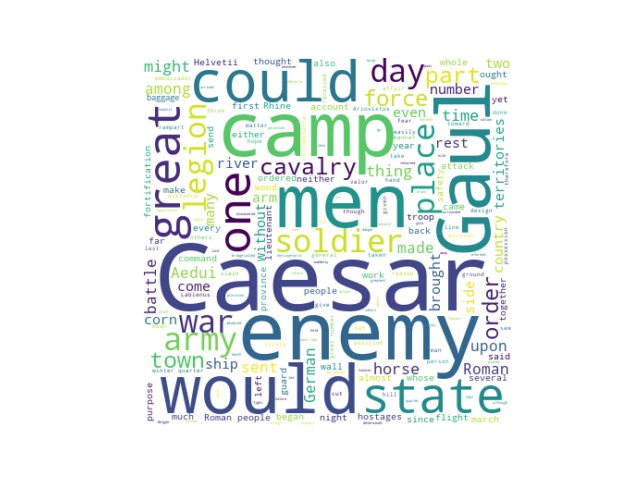
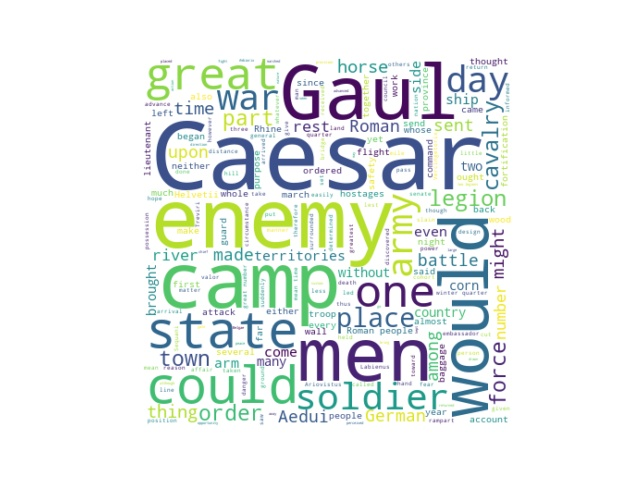
fixed animated embedding keywords

Changed region(s): [[0.2188, 0.125, 0.8125, 0.9062]]

diff --git a/driver.py b/driver.py
@@ -3,11 +3,11 @@ import os
 import json
 import argparse
 import matplotlib.pyplot as plt 
-import matplotlib.animation as animation
 import numpy as np
 from core import analysis
 from core import settings
 from core import ui
+from core import graph
 from core.translation import Translation
 from adjustText import adjust_text
 from tqdm import tqdm
@@ -75,36 +75,13 @@ class Driver:
         if index != back_index - 1:
             return self.texts[index][1]
         return None
-        
-    def sentiment(self, translations: list) -> None:
-        fig = plt.figure()
-        title = "Sentiment Over Time"
-        for t in translations:
-            t.print_info()
-            text = t.get_delimited_text()
-            text = analysis.preprocess_text(text, settings.stopwords)
-            #print(text)
-            s = analysis.sentiment_by_section(text)
-            x = np.arange(s.size)
-            plt.plot(x, s, label = t.get_info())    
-        plt.title(title)
-        plt.legend()
-        plt.xticks(np.arange(1, s.size + 1))
-        plt.xlabel("Interval")
-        plt.ylabel("Positivity / Negativity")
-        fig.set_size_inches(12, 6)
-        plt.savefig(os.path.join(self.paths["sentiment"], "sentiment_comparison.png"), dpi = 100)
-        plt.show()
 
     def wordclouds(self, translations: list, text_path: str) -> None:
         print("Generating wordclouds for the following translations:")
         for t in translations:
             t.print_info()
-            plt.figure()
-            plt.imshow(t.generate_wordcloud(stopwords = settings.stopwords, size = (400, 400)), interpolation = 'bilinear', cmap = 'Paired')
-            plt.axis('off')
-            plt.savefig(os.path.join(self.paths["figures"], text_path, "wordclouds", f"wordcloud_{t.lastname}.jpg"))
-            #plt.show()
+            save_path = os.path.join(self.paths["figures"], text_path, "wordclouds", f"wordcloud_{t.lastname}.jpg")
+            graph.wordcloud(t, settings.stopwords, save_path)
 
     def embeddings(self, translations: list, text_path: str, printing: bool = True) -> None:
         print("Creating embeddings...")
@@ -118,21 +95,8 @@ class Driver:
             similar_words, all_words, pcs, explained_variance = analysis.analyze_embeddings(corpus, settings.key_words[text_path])
             all_words, indices = np.unique(all_words, return_index=True)
             pcs = pcs[indices]
-
-            with plt.style.context('Solarize_Light2'):
-                plt.figure(figsize=(12, 8))
-                plt.rcParams.update({'font.family':'serif'})
-                plt.scatter(pcs[:, 0], pcs[:, 1], c='darkgoldenrod')
-
-                annotations = []
-                for word, x, y in zip(all_words, pcs[:, 0], pcs[:, 1]):
-                    annotations.append(plt.annotate(word, xy=(x+0.015, y-0.005), xytext=(0, 0), textcoords='offset points'))
-                adjust_text(annotations)
-
-                plt.xlabel("PC1 | " + "{:.2%}".format(explained_variance[0]))
-                plt.ylabel("PC2 | " + "{:.2%}".format(explained_variance[1]))
-                plt.title(f"Translation: {t.get_info()}") 
-                plt.savefig(os.path.join(self.paths["figures"], text_path, "embeddings", "embeddings_" + t.lastname + ".jpg"), dpi=300)
+            save_path = os.path.join(self.paths["figures"], text_path, "embeddings", "embeddings_" + t.lastname + ".jpg")
+            graph.embeddings(t, all_words, pcs, explained_variance, save_path)
 
             if printing:
                 print()
@@ -141,7 +105,8 @@ class Driver:
                     print(f"{k}: {v}")
                 print('-----------------------------------')
 
-    def animated_embeddings(self, translations: list, printing = False) -> None:
+    def animated_embeddings(self, translations: list, text_path: str, printing = False) -> None:
+        print("Creating embeddings...")
         embedding_info = []
         for i, t in enumerate(translations):
             text = t.get_delimited_text()
@@ -149,58 +114,31 @@ class Driver:
             corpus = []
             for section in text:
                 corpus.append(section.split(' '))
-            similar_words, all_words, pcs, explained_variance = analysis.analyze_embeddings(corpus, settings.key_words)
+            similar_words, all_words, pcs, explained_variance = analysis.analyze_embeddings(corpus, settings.key_words[text_path])
             key_words = []
             for k, v in similar_words.items():
                 key_words.append(k)
             embedding_info.append([key_words, all_words, pcs, explained_variance, t.get_info()])
         embedding_info.append(embedding_info[0]) # loop back to first translation at the end
+        save_path = save_path = os.path.join(self.paths["figures"], text_path, "embeddings", "embeddings_animated.gif")
+        print("Animating embeddings...")
+        graph.animated_embeddings(embedding_info, save_path)
 
-
-        with plt.style.context('Solarize_Light2'):
-            fig = plt.figure(figsize=(12, 8))
-            ax = plt.axes()
-        N = 150
-        delay = 20
-
-        def animate(i, N, embedding_info):
-            pause = (i // N) % 2 == 0
-            ci = i % N 
-            j = i // (N * 2)
-
-            current_points = np.array(list(zip(embedding_info[j][2][:, 0], embedding_info[j][2][:, 1])))
-            next_points = current_points if pause else np.array(list(zip(embedding_info[j + 1][2][:, 0], embedding_info[j + 1][2][:, 1])))
-
-            ax.clear()
-            points = np.empty((current_points.shape))
-            for k in range(len(current_points)):
-                #print(current_points[k])
-                xdist = next_points[k][0] - current_points[k][0]
-                ydist = next_points[k][1] - current_points[k][1]
-                word  = embedding_info[j][1][k]
-                points[k][0] = current_points[k][0] + ((ci * xdist) / N)
-                points[k][1] = current_points[k][1] + ((ci * ydist) / N)
-            ax.scatter(points[:, 0], points[:, 1])
-            ax.set_xlim((-0.7, 1.25))
-            ax.set_ylim((-0.4, 0.7))
-            ax.set_title(embedding_info[j][4])
-            #annotations = []
-            if pause:
-                for word, x, y in zip(embedding_info[j][1],  points[:, 0], points[:, 1]):
-                    ax.annotate(word, xy=(x + 0.01, y + 0.0), xytext=(0, 0), textcoords='offset points')
-            else:
-                for word, x, y in zip(embedding_info[j][1],  points[:, 0], points[:, 1]):
-                    if word in embedding_info[j][0]:
-                        ax.annotate(word, xy=(x + 0.01, y + 0.0), xytext=(0, 0), textcoords='offset points')
-
-            #adjust_text(annotations)
-            
-            return ax
-            
-        anim = animation.FuncAnimation(fig, 
-                                       animate, 
-                                       frames=(len(embedding_info) * N * 2 - N),
-                                       interval = delay,
-                                       fargs = (N, embedding_info),
-                                       repeat = True)
-        anim.save(os.path.join(self.paths["embeddings"], "embeddings_animated.gif"))
+    def sentiment(self, translations: list) -> None:
+        fig = plt.figure()
+        title = "Sentiment Over Time"
+        for t in translations:
+            t.print_info()
+            text = t.get_delimited_text()
+            text = analysis.preprocess_text(text, settings.stopwords)
+            s = analysis.sentiment_by_section(text)
+            x = np.arange(s.size)
+            plt.plot(x, s, label = t.get_info())    
+        plt.title(title)
+        plt.legend()
+        plt.xticks(np.arange(1, s.size + 1))
+        plt.xlabel("Interval")
+        plt.ylabel("Positivity / Negativity")
+        fig.set_size_inches(12, 6)
+        plt.savefig(os.path.join(self.paths["sentiment"], "sentiment_comparison.png"), dpi = 100)
+        plt.show()
